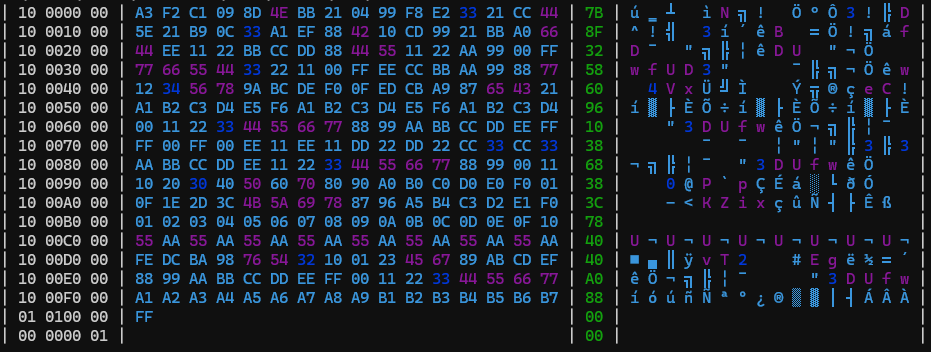
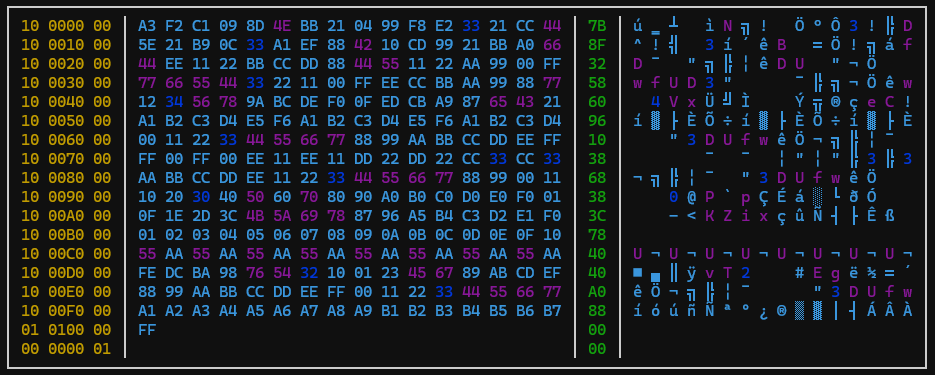
Table now looks a little nicer

Changed region(s): [[0.0, 0.0, 0.9968, 1.0]]

diff --git a/src/main.c b/src/main.c
@@ -14,6 +14,14 @@
 #define WHT   "\x1B[37m"
 #define RESET "\x1B[0m"
 
+// table characters
+#define V_LINE 0xB3
+#define H_LINE 0xC4
+#define TL_CORNER 0xDA
+#define TR_CORNER 0xBF
+#define BL_CORNER 0xC0
+#define BR_CORNER 0xD9
+
 // error enum
 enum response
 {
@@ -119,9 +127,9 @@ int displayLine(char *line)
     char strByte[2];
     long int DataLen = 0;
 
+    printf("%c ", V_LINE);
 
-    printf("| ");
-
+    printf(YEL);
     // byte count
     memcpy(strByte, &line[1], 2);
     DataLen = strtol(strByte, NULL, 16);
@@ -135,7 +143,10 @@ int displayLine(char *line)
 
     // record type
     memcpy(strByte, &line[7], 2);
-    printf(" %02X | ", strtol(strByte, NULL, 16));
+    printf(" %02X ", strtol(strByte, NULL, 16));
+
+    resetTerminalColor();
+    printf("%c ", V_LINE);
 
     // data
     for (int i = 9; i < (DataLen * 2) + 8; i = i + 2)
@@ -162,13 +173,13 @@ int displayLine(char *line)
     memcpy(strByte, &line[41], 2);
 
     // right now make checksum green. But later it should be Green or RED (depends if the checksum is correct)
-    printf("| ");
+    printf("%c ", V_LINE);
 
     printf(GRN);
     printf("%02X", strtol(strByte, NULL, 16));
     resetTerminalColor();
 
-    printf(" | ");
+    printf(" %c ", V_LINE);
 
     for (int i = 9; i < (DataLen * 2) + 8; i = i + 2)
     {
@@ -198,9 +209,29 @@ int displayLine(char *line)
         printf("  ", strtol(strByte, NULL, 16));
     }
 
-    printf("|\n");
+    printf("%c\n", V_LINE);
 
     return OK;
+}
+
+void printTopOfTable()
+{
+    printf("%c", TL_CORNER);
+        for(int i = 0; i < 101; i++ )
+        {
+            printf("%c", H_LINE);
+        }
+    printf("%c\n", TR_CORNER);
+}
+
+void printBottomOfTable()
+{
+    printf("%c", BL_CORNER);
+        for(int i = 0; i < 101; i++ )
+        {
+            printf("%c", H_LINE);
+        }
+    printf("%c\n", BR_CORNER);
 }
 
 // reads lines of hex file one by one and display content to terminal
@@ -213,16 +244,30 @@ int displayContentFromData(struct data *currentData)
 
     if (fptr != NULL) {
 
+        printTopOfTable();
+
         while (fgets(line, sizeof(line), fptr)) 
         {
             displayLine(line);
             memset(line, 0x00, 45);
         }
 
+        printBottomOfTable();
+
         fclose(fptr);
     }
 
     return OK;
+}
+
+void Helper_PrintASCI()
+{
+    printf("ASCI HELPER:\n\n");
+    for (int i = 0; i < 256; i++)
+    {
+        printf("%x-%c  ", i, i);
+    }
+    printf("\n");
 }
 
 // main...
@@ -240,6 +285,8 @@ int main(int argc, char **argv)
         return 0;
     }
 
+    //Helper_PrintASCI();
+    
     return 0;
 }
 

diff --git a/README.md b/README.md
@@ -21,7 +21,6 @@ I use gcc, so I do it like this:
 ## todo:
 - create help -h 
 - create option to add start and end address to display only part of hex file
-- polish coloring of output
 - check if checksum is correct
 - print "metadata" of the hexfile
 - add header to describe colums in the hexfile
